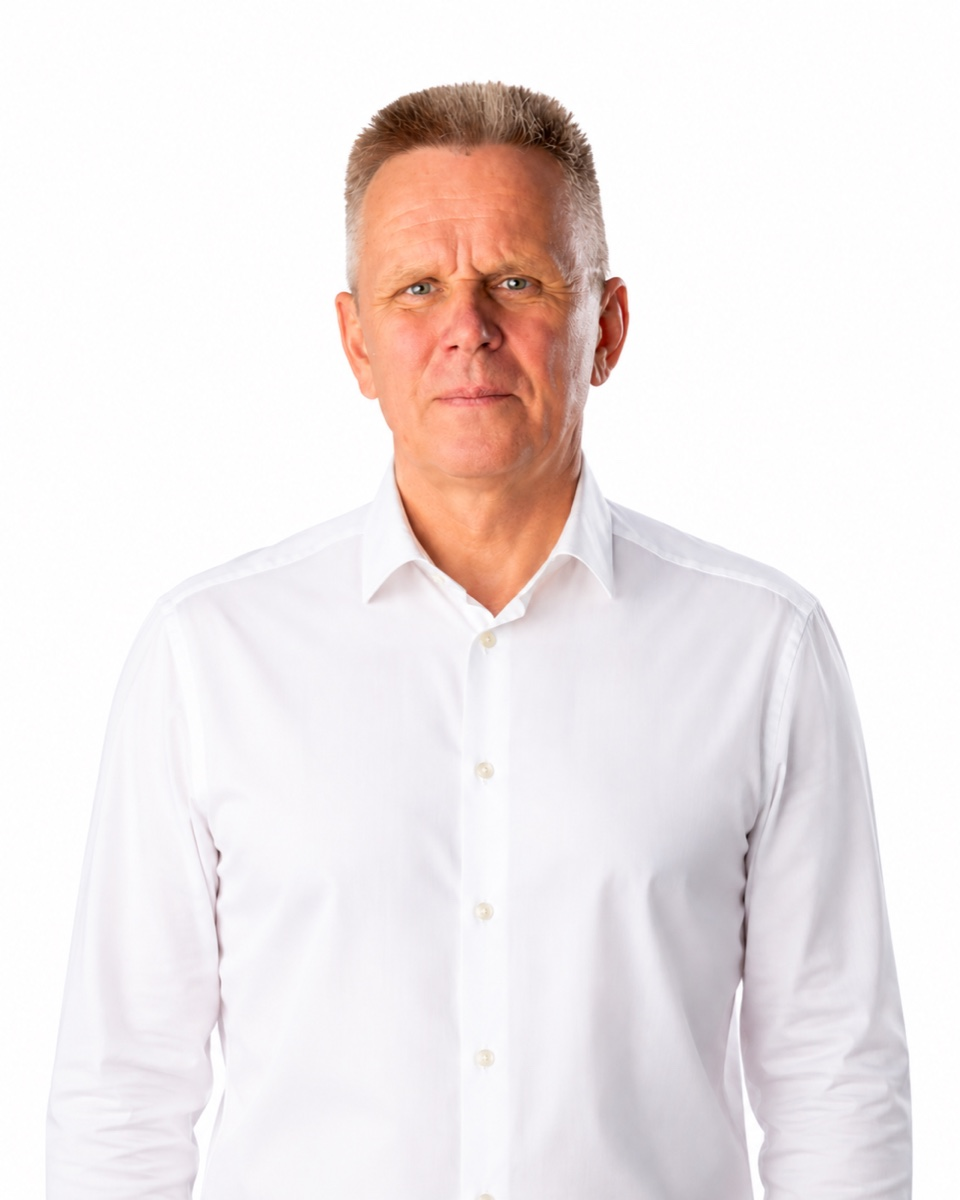
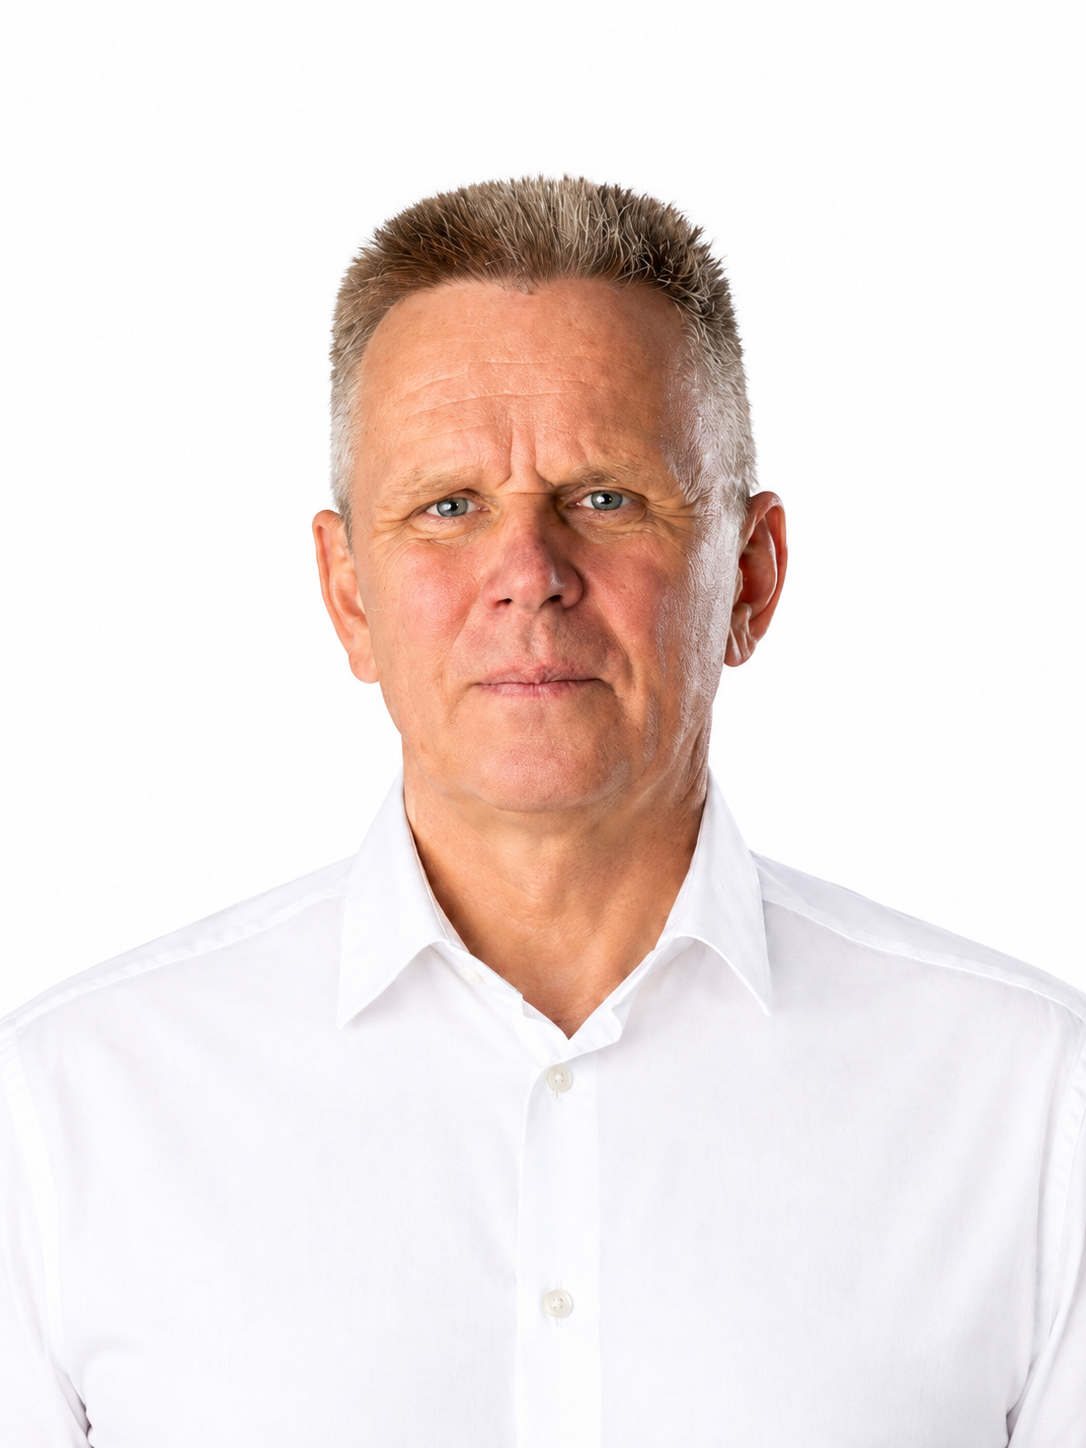
fix(team): replace photos (Громак, Цеховая, Балашко, Казинец) and add Гендиректор photo in culture section

diff --git a/pages/team/index.vue b/pages/team/index.vue
@@ -156,7 +156,7 @@
                 "Мы держимся на двух вещах: инженерном расчёте и собственном производстве. Проект, оборудование и пусконаладка — в одних руках, поэтому за результат отвечаем целиком."
               </p>
               <div class="flex items-center gap-3">
-                <div class="w-12 h-12 bg-esp-blue rounded-full flex items-center justify-center text-white font-bold">ЭС</div>
+                <img src="/images/team/aleksey-gromak.jpg" alt="Алексей Громак" class="w-12 h-12 rounded-full object-cover object-center" />
                 <div>
                   <p class="font-rounded font-semibold text-esp-black text-sm">Генеральный директор ESP</p>
                   <p class="text-esp-black/60 text-xs">28 лет в отрасли очистки воды</p>
